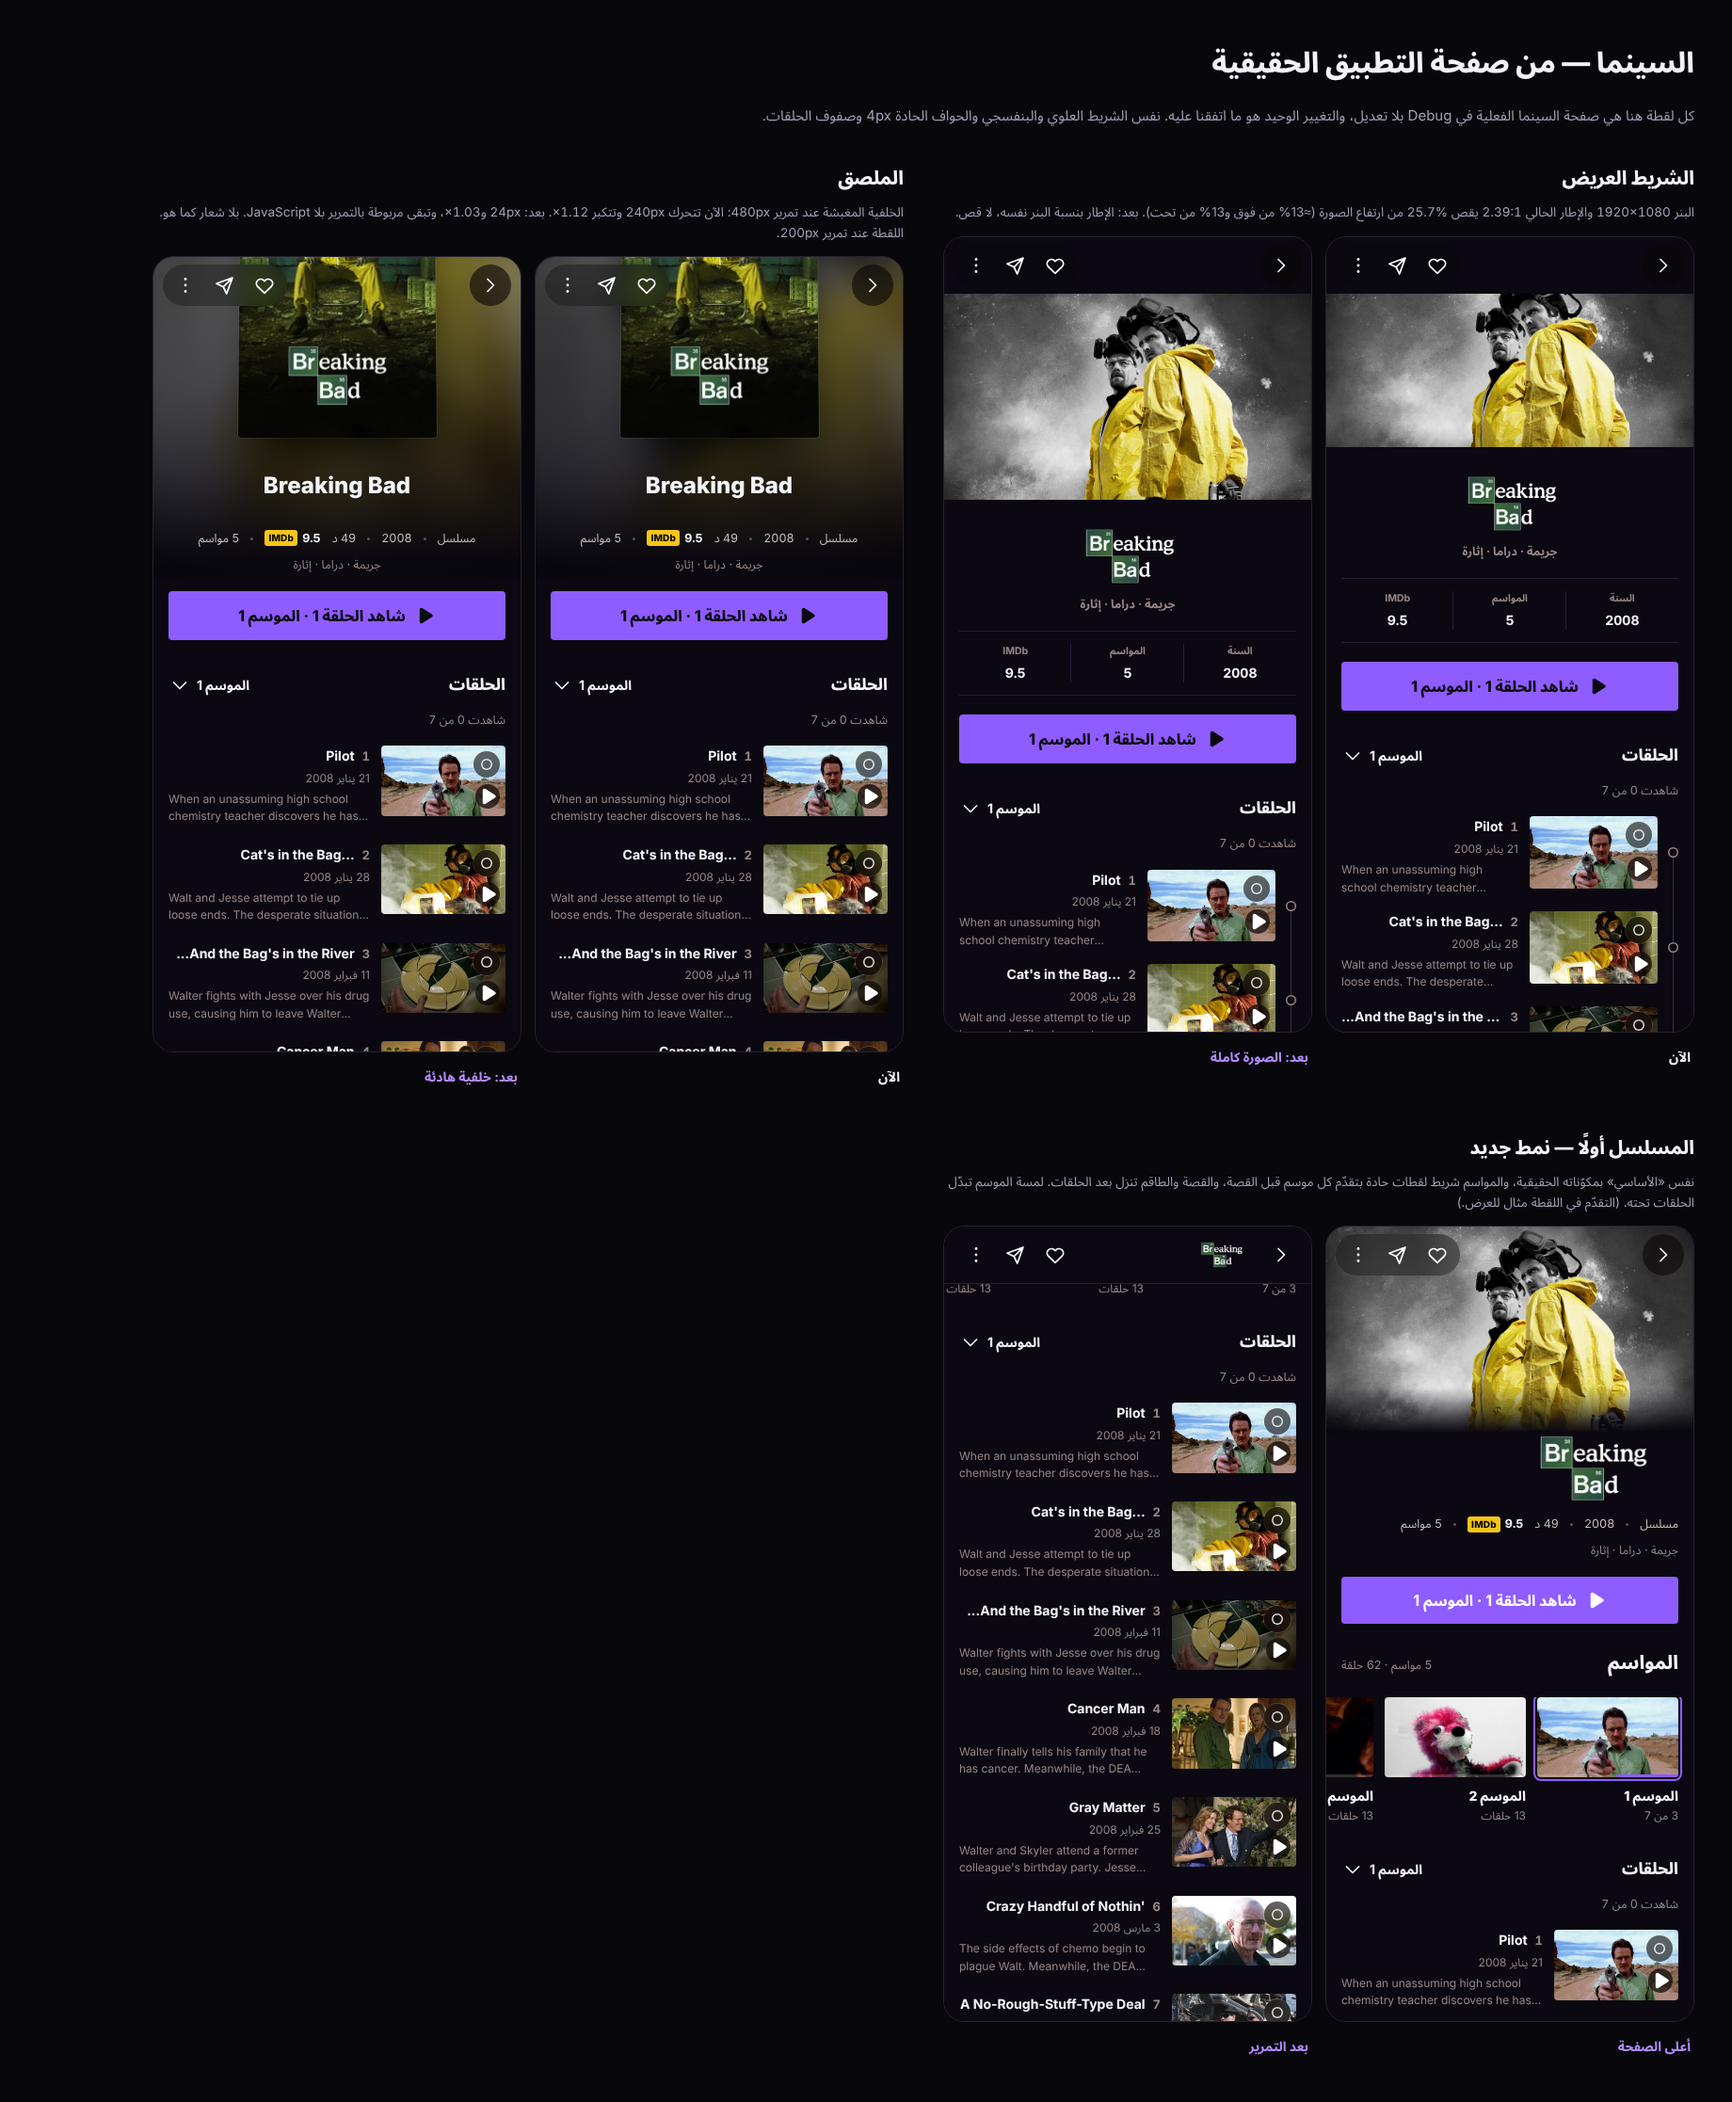
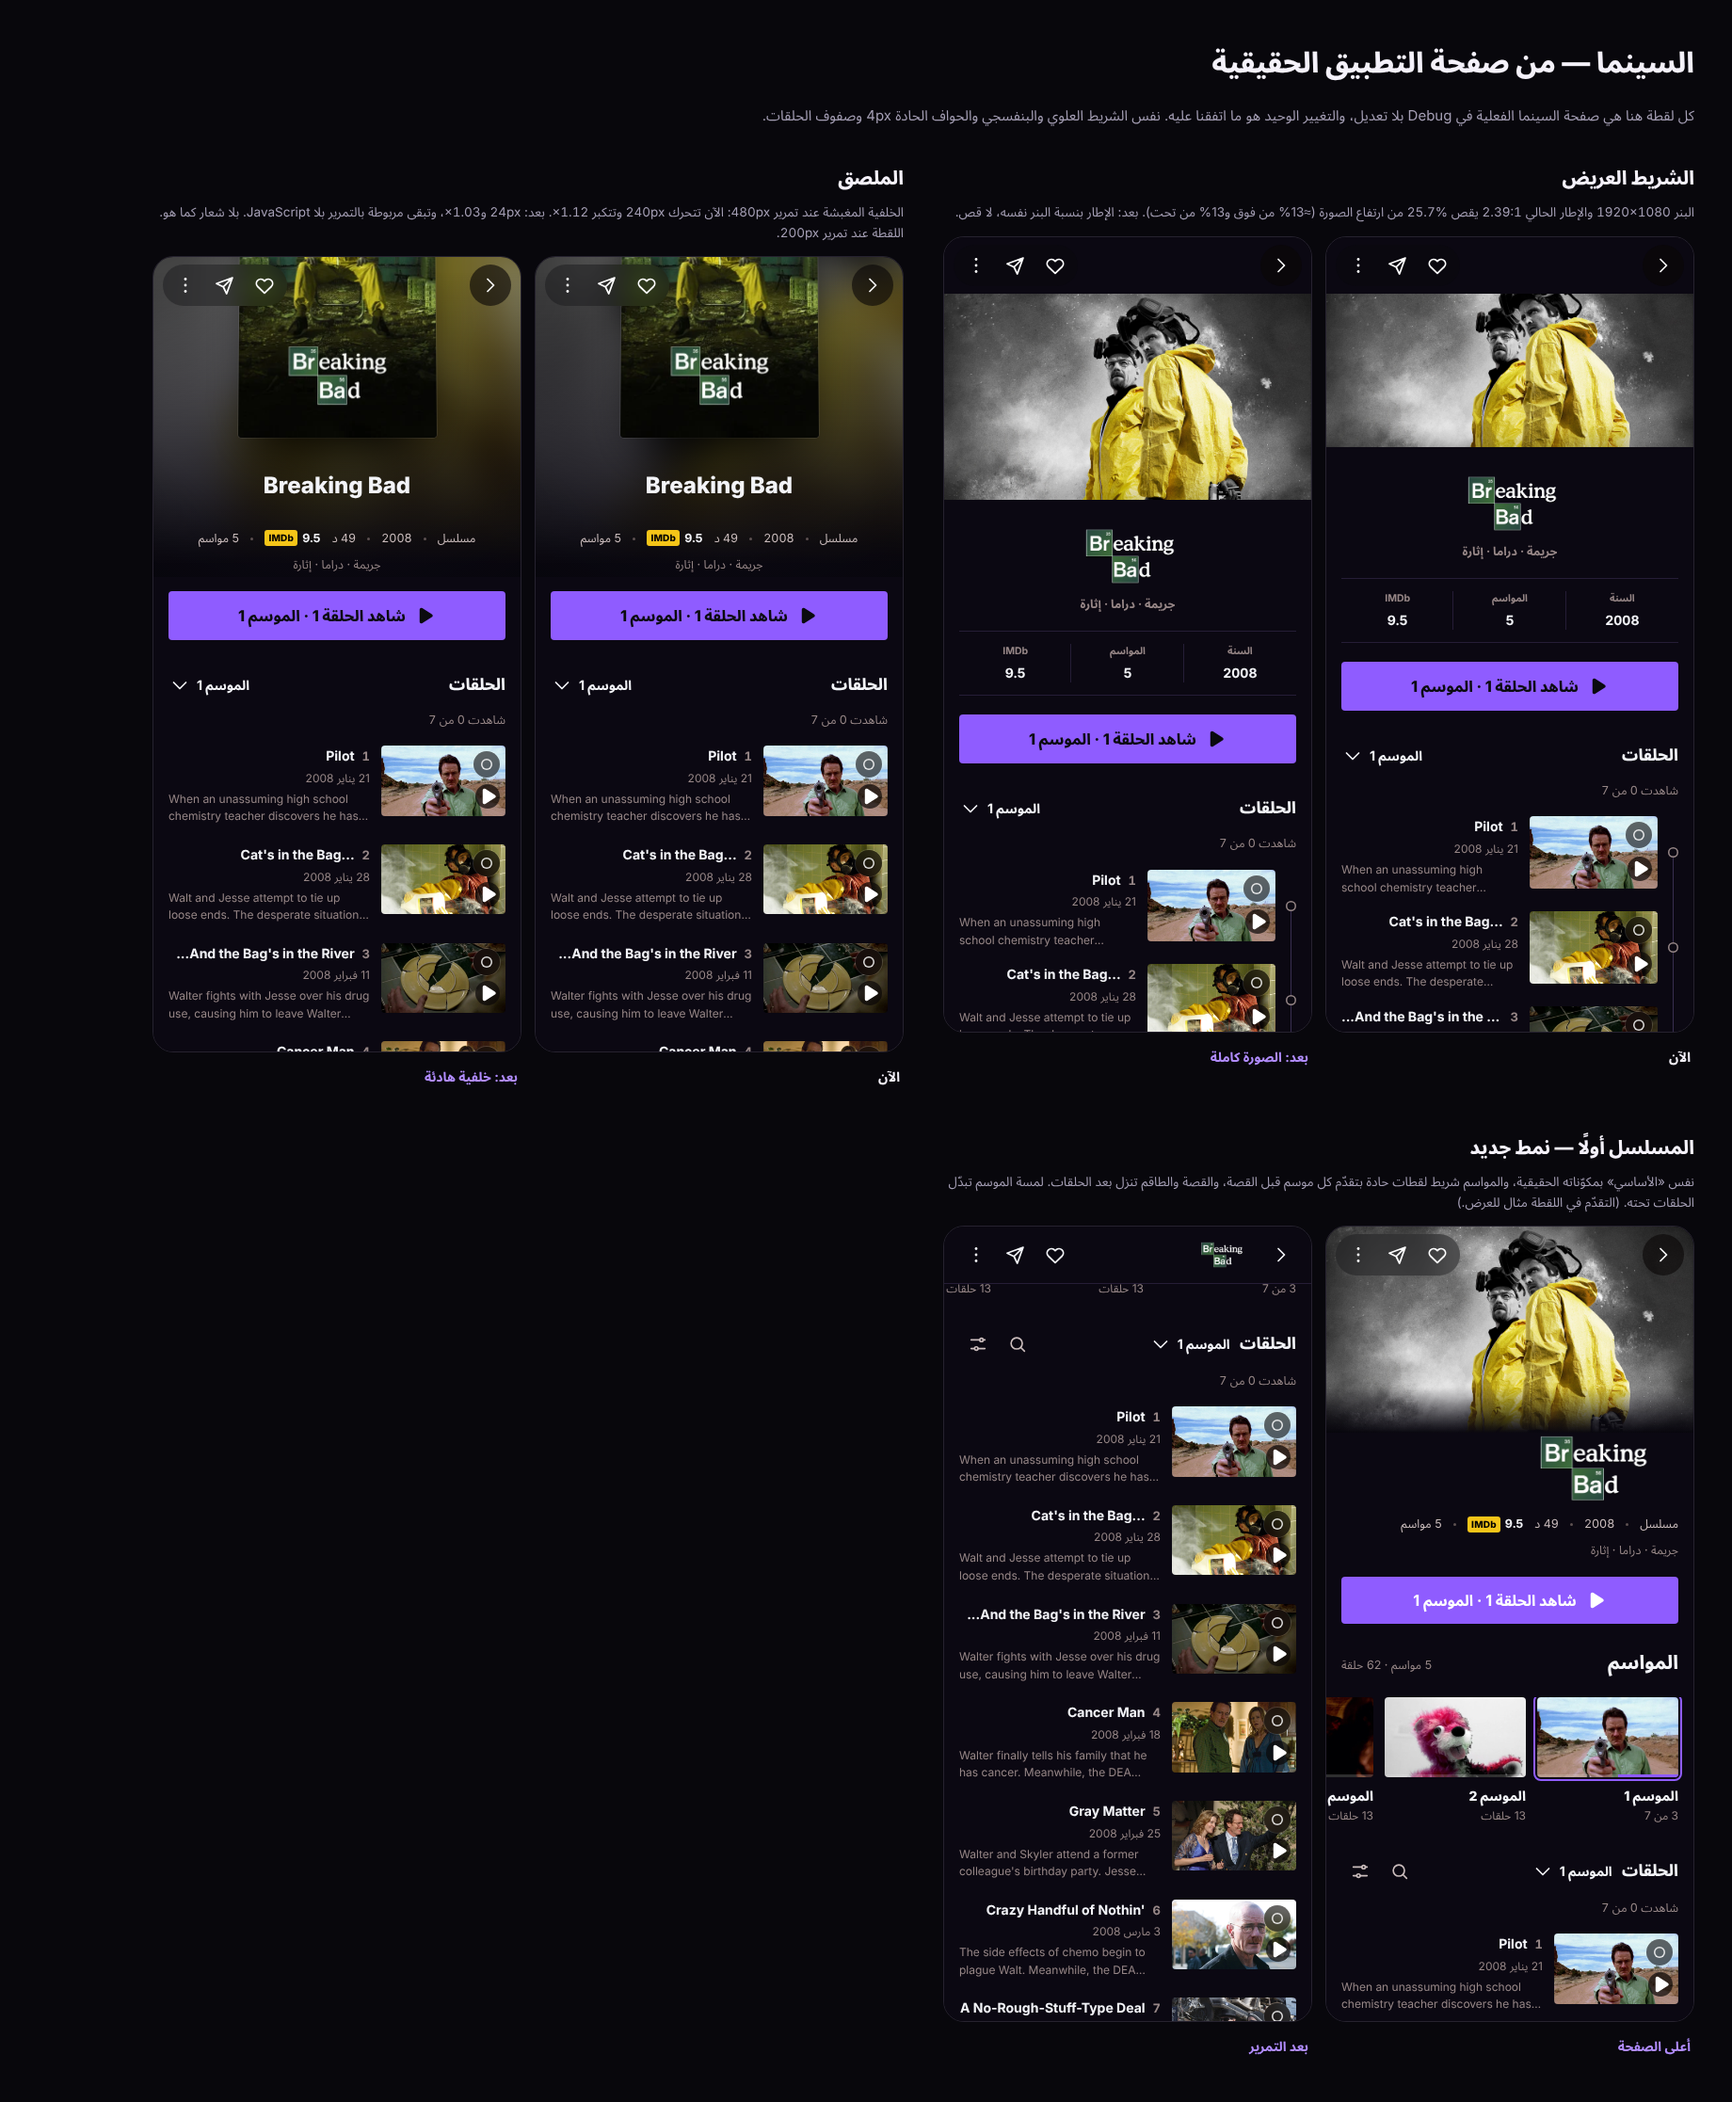
docs(design): الموحد بأقرب صورة متناسقة مع الإطار (الملصق بلا قص)، والبحث والتصفية في كل الأنماط الجديدة
Claude-Session: https://claude.ai/code/session_01Q5Ts79Fj23zwWEJBf8uymD

Changed region(s): [[0.5576, 0.6489, 0.7435, 0.9579], [0.7745, 0.8961, 0.9913, 0.9579]]

diff --git a/docs/design/2026-11-12/real/unified-look.css b/docs/design/2026-11-12/real/unified-look.css
@@ -48,9 +48,24 @@ article.aw[data-look=unified] .aw-genre { padding: 0 !important; background: non
 .u-season span { font-size: 11px; color: var(--text-4); white-space: nowrap; }
 .u-season.active { color: var(--text-1); }
 .u-season.active::after { content: ''; position: absolute; inset-inline: 0; bottom: 0; height: 2px; border-radius: 2px; background: var(--accent); }
-article.aw[data-look=unified] .aw-episode-controls > :first-child:not(.an-seasons):not(.aw-ranges) { display: none; }
+article.aw[data-look=unified] .aw-eps-head { display: none !important; }
 .cn-detail[data-look=unified] .cn-eps-head, .cn-detail[data-look=unified] .cn-eps-count { display: none !important; }
 :is(article.aw, .cn-detail)[data-look=unified] :is(.aw-below, .cn-cast, .cn-sources:empty) { display: none !important; }
 :is(article.aw, .cn-detail)[data-look=unified] .work-insights { display: none; }
 
 :is(article.aw, .cn-detail)[data-look=unified] :is(.an-mark, .cn-mark) { display: flex !important; }
+
+/* البطل: إطاره بنسبة الصورة المختارة (أقرب صورة متناسقة مع الإطار، وإلا الغلاف) فلا قص */
+:root { --u-hero: min(150vw, 600px); }
+/* البحث والترتيب والتصفية: في سطر الألسنة نفسه، في كل الأقسام */
+.u-tabs { align-items: flex-end; }
+.u-tools { margin-inline-start: auto; display: flex; gap: 2px; padding-bottom: 4px; }
+.u-tools .icon-btn { width: 40px; height: 40px; display: grid; place-items: center; border: 0; background: none !important; color: var(--text-2); }
+.u-tools .icon-btn svg { width: 22px; height: 22px; stroke: currentColor; fill: none; stroke-width: 1.8; stroke-linecap: round; }
+/* الصورة المختارة ملصق/غلاف (عنوانه مطبوع عليه): لا شعار ثانٍ فوقه؛ العنوان نصًا تحت الصورة عند ذوبانها */
+:is(article.aw, .cn-detail)[data-look=unified].u-poster :is(.aw-main, .cn-detail-body) { margin-top: -64px !important; }
+:is(article.aw, .cn-detail)[data-look=unified].u-poster :is(.an-mark-logo, .cn-mark-logo) { display: none !important; }
+:is(article.aw, .cn-detail)[data-look=unified].u-poster :is(.an-mark-text, .cn-mark-text) { position: static !important; width: auto !important; height: auto !important; clip: auto !important; clip-path: none !important; display: block !important; margin: 0 !important; font-size: 26px !important; font-weight: 800; line-height: 1.2; text-align: start !important; overflow: visible !important; white-space: normal !important; -webkit-line-clamp: 2; }
+:is(article.aw, .cn-detail)[data-look=unified].u-poster :is(.an-mark, .cn-mark) { margin-bottom: 10px !important; }
+article.aw[data-look=unified] .aw-hero { width: 100% !important; max-width: none !important; margin-inline: 0 !important; left: 0 !important; right: 0 !important; transform: none !important; }
+:is(article.aw, .cn-detail)[data-look=unified].u-poster :is(.an-mark-text, .cn-mark-text) { opacity: 1 !important; font-size: 21px !important; }

diff --git a/docs/design/2026-11-12/real/manga-looks.css b/docs/design/2026-11-12/real/manga-looks.css
@@ -72,3 +72,15 @@
 #detail[data-v=unified] .mw-row > .mw-cta { flex: 1 1 0 !important; width: auto !important; min-width: 0 !important; }
 #detail[data-v=unified] .mw-acts { width: auto !important; max-width: none !important; }
 #detail[data-v=unified] .mw-row > .mw-square { flex: 0 0 44px !important; width: 44px !important; }
+/* الموحد: إطار البطل بنسبة الغلاف نفسه، والأدوات في سطر الألسنة كالأنمي والسينما */
+#detail[data-v=unified] .mw-cover, #detail[data-v=unified] .u-fade { height: var(--u-hero, min(150vw, 600px)) !important; }
+#detail[data-v=unified] .mw-tabs { display: flex !important; align-items: flex-end; }
+#detail[data-v=unified] .mw-tabs .u-tools { margin-inline-start: auto; display: flex; gap: 2px; padding-bottom: 4px; }
+#detail[data-v=unified] .mw-tabs .u-tools .icon-btn, #detail[data-v=unified] .mw-tabs .u-tools .mw-sort { width: 40px; height: 40px; display: grid; place-items: center; border: 0; padding: 0 !important; background: none !important; color: var(--text-2); }
+#detail[data-v=unified] .mw-tabs .u-tools .mw-sort span { display: none; }
+#detail[data-v=unified] .mw-tabs .u-tools svg { width: 22px; height: 22px; }
+#detail[data-v=unified] .mw-tabs .u-tools .icon-btn svg { stroke: currentColor; fill: none; stroke-width: 1.8; stroke-linecap: round; }
+#detail[data-v=unified] .mw-center { margin-top: -64px !important; }
+#detail[data-v=unified] .mw-title { font-size: 28px !important; text-shadow: none; }
+#detail[data-v=unified] .mw-tabs .u-tools { flex-direction: row !important; align-items: center; position: static !important; }
+#detail[data-v=unified] .mw-tabs .u-tools > * { position: static !important; inset: auto !important; transform: none !important; margin: 0 !important; }
